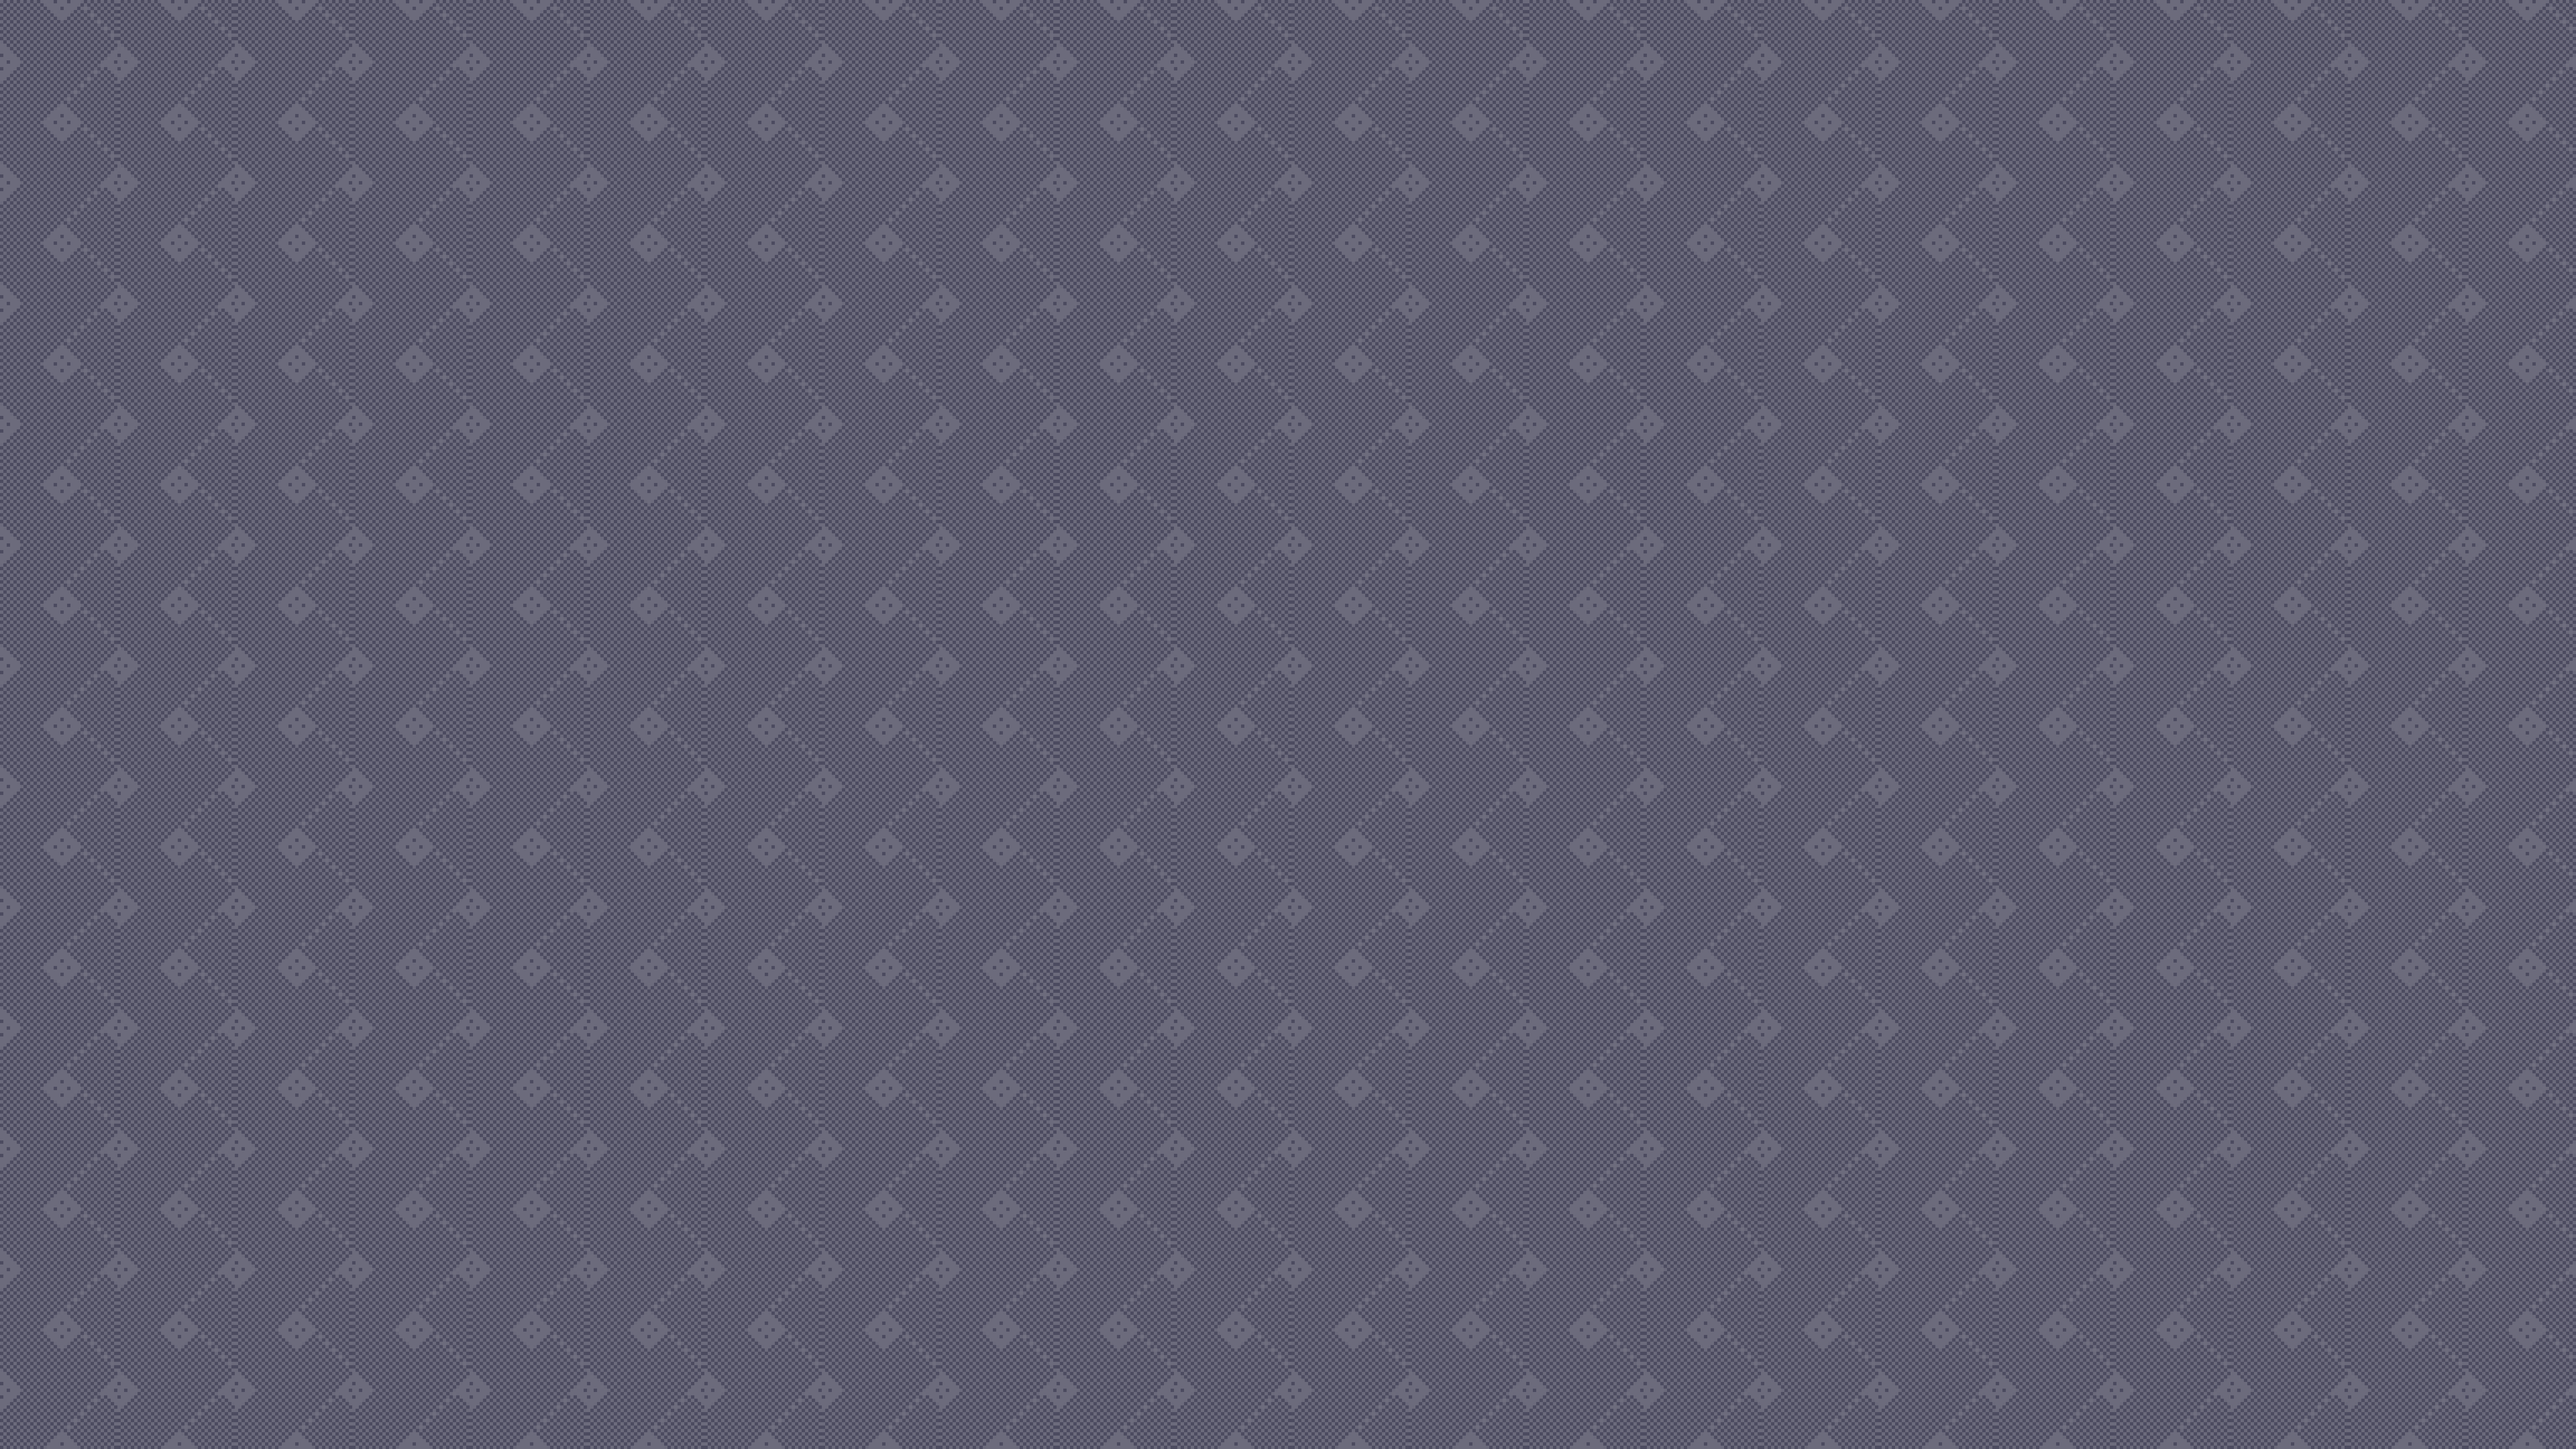
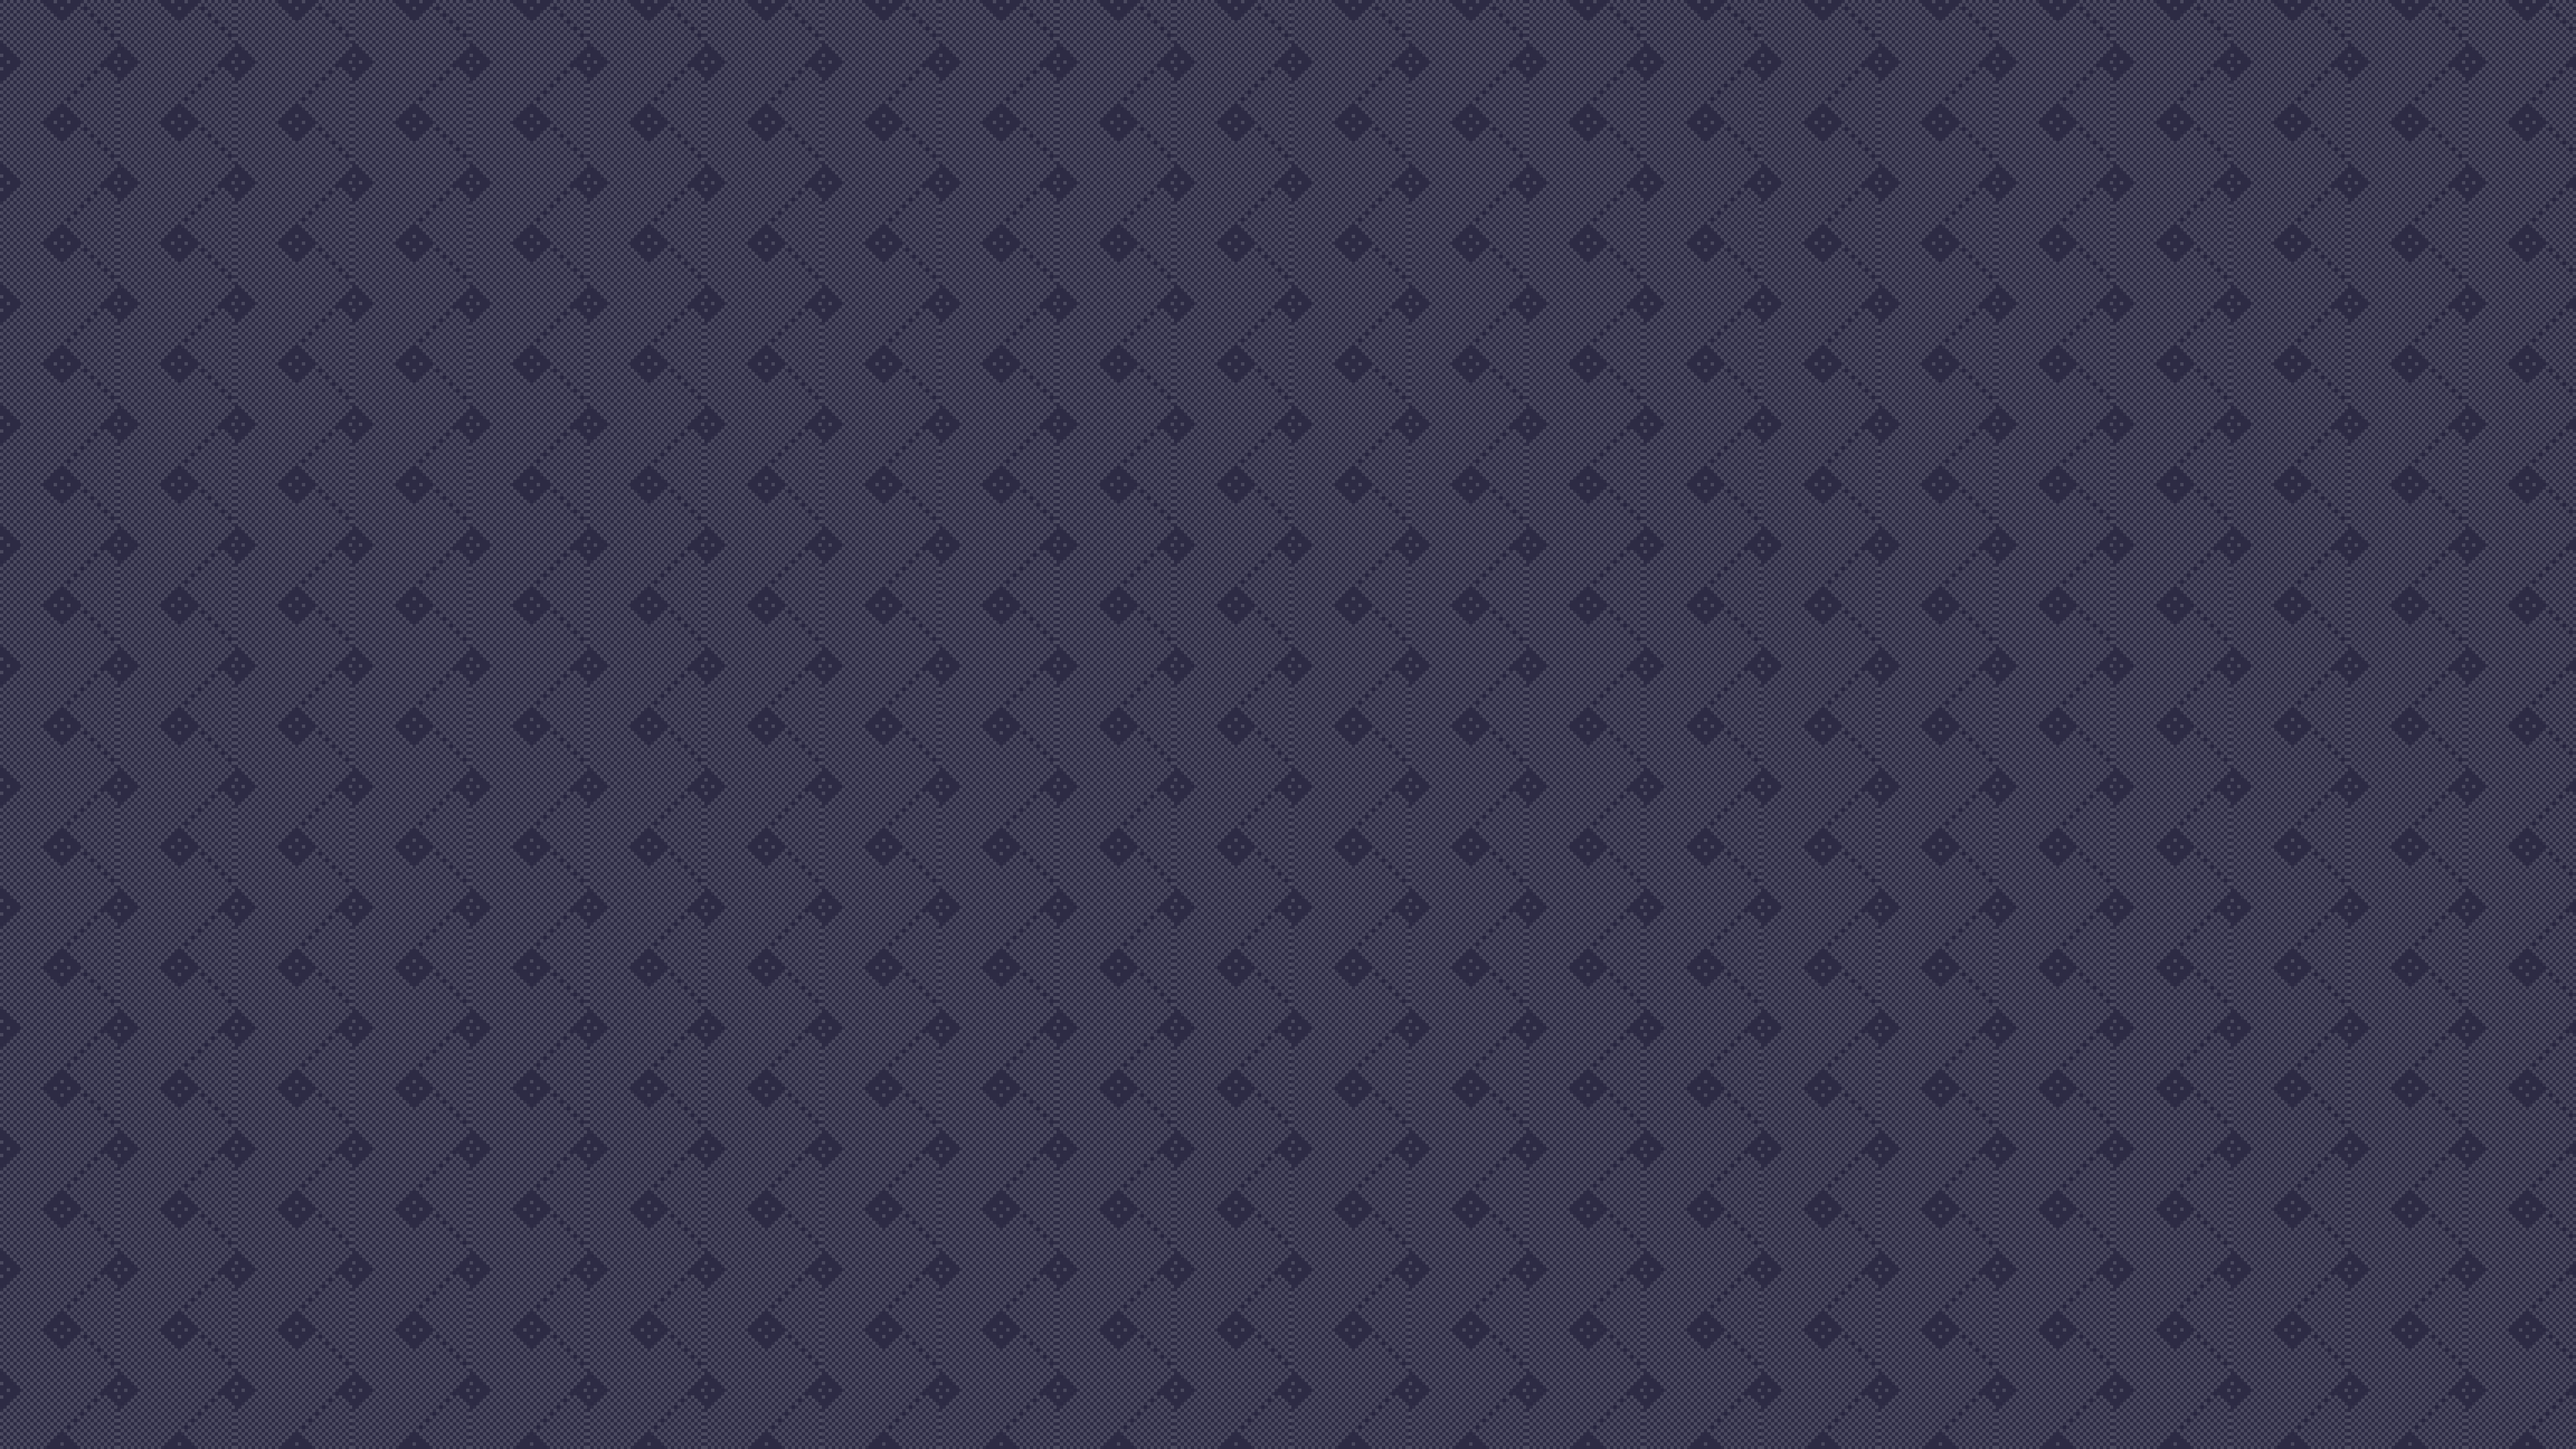
Trim wallpapers to the curated seven; Lattice in theme color

diff --git a/README.md b/README.md
@@ -53,10 +53,10 @@ Full 16-color ANSI palette in [`palette.txt`](palette.txt).
 
 ## Wallpapers
 
-Fourteen procedurally-generated backdrops in `backgrounds/` (6K), rendered at
+Seven procedurally-generated backdrops in `backgrounds/` (6K), rendered at
 an 8× tile scale from [NsCDE](https://github.com/NsCDE/NsCDE) XPM patterns and
-recolored to this palette: **Solyaris, Dimple, Dune, Swirl, Squares, Marble,
-Toronto, SandLight, CircuitBoards, Lattice, Concave, Convex, PinStripe, Bark**.
+recolored to this palette: **Solyaris, Dune, Toronto, SandLight,
+CircuitBoards, Lattice, PinStripe**.
 Regenerate them with
 [circumspace/scripts `gen-cde-wallpapers`](https://github.com/circumspace/scripts).
 
